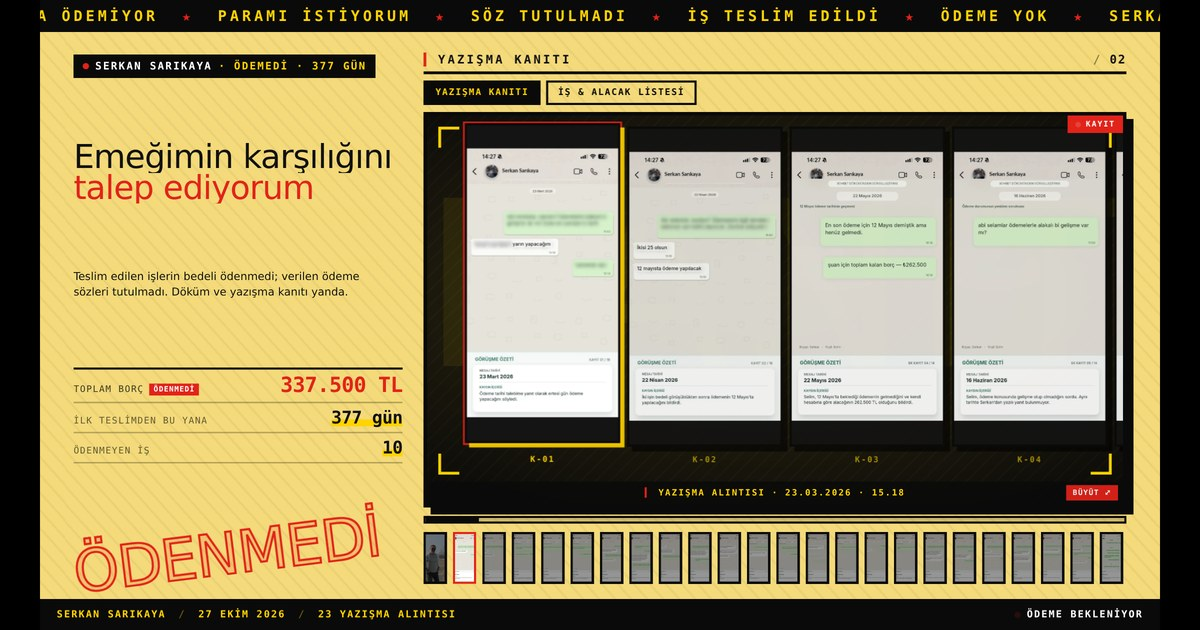
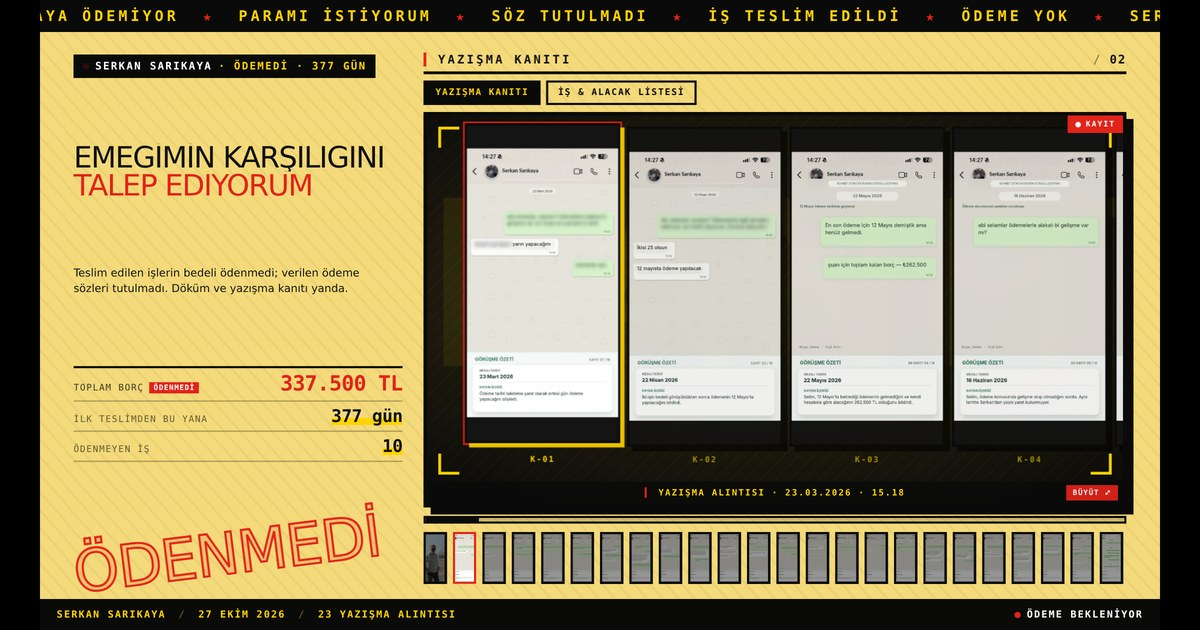
guncelle: 2026-10-28 07:22

diff --git a/04-afis-yatay.html b/04-afis-yatay.html
@@ -85,7 +85,7 @@ body{
 @keyframes blink{50%{opacity:.15}}
 
 h1{margin:0;font-family:var(--disp);
-  font-size:47px;line-height:.94;letter-spacing:-1px;font-weight:400}
+  font-size:42px;line-height:.94;letter-spacing:-1.6px;font-weight:400;text-transform:uppercase}
 h1 .ln{display:block;overflow:hidden}
 h1 .ln>i{display:block;font-style:normal;transform:translateY(105%);
   animation:wipe .82s cubic-bezier(.16,1,.3,1) forwards}
@@ -475,7 +475,7 @@ h1 .ln:nth-child(2){color:var(--r)}
   .left{gap:7px;justify-content:flex-start}
 
   .chip{font-size:10px;letter-spacing:.08em;padding:5px 8px;gap:6px}
-  h1{font-size:clamp(27px,8.6vw,42px);letter-spacing:-.5px;line-height:.94}
+  h1{font-size:clamp(24px,7.3vw,36px);letter-spacing:-.9px;line-height:.94}
   .lede{font-size:12.5px;line-height:1.3;max-width:none}
   .stats{margin-top:0;border-top-width:2px}
   .stat{padding:3px 0;gap:8px}
@@ -570,7 +570,7 @@ h1 .ln:nth-child(2){color:var(--r)}
 @media (min-width:600px) and (max-width:820px){
   .cell{width:176px}
   .slider{height:50svh;max-height:460px}
-  h1{font-size:clamp(38px,6.2vw,54px)}
+  h1{font-size:clamp(33px,5.4vw,46px);letter-spacing:-1.3px}
   .lede{font-size:14.5px}
   .stat u{font-size:22px}
   .stat.st-borc u{font-size:26px}
@@ -579,7 +579,7 @@ h1 .ln:nth-child(2){color:var(--r)}
 }
 @media (max-width:820px) and (orientation:landscape){
   .slider{height:82svh;min-height:300px}
-  h1{font-size:clamp(28px,5.2vw,42px)}
+  h1{font-size:clamp(24px,4.6vw,36px);letter-spacing:-1.1px}
   #giris .soz{font-size:clamp(26px,4.6vw,44px)}
   #giris .btn{margin-top:18px;padding:12px 22px}
 }
@@ -606,8 +606,8 @@ h1 .ln:nth-child(2){color:var(--r)}
       <span class="chip"><i class="dot"></i><b>SERKAN SARIKAYA</b> · ÖDEMEDİ · 377 gün</span>
 
       <h1>
-        <span class="ln"><i>Emeğimin karşılığını</i></span>
-        <span class="ln"><i>talep ediyorum</i></span>
+        <span class="ln"><i>EMEĞİMİN KARŞILIĞINI</i></span>
+        <span class="ln"><i>TALEP EDİYORUM</i></span>
       </h1>
 
       <p class="lede">Teslim edilen işlerin bedeli ödenmedi; verilen ödeme

diff --git a/index.html b/index.html
@@ -85,7 +85,7 @@ body{
 @keyframes blink{50%{opacity:.15}}
 
 h1{margin:0;font-family:var(--disp);
-  font-size:47px;line-height:.94;letter-spacing:-1px;font-weight:400}
+  font-size:42px;line-height:.94;letter-spacing:-1.6px;font-weight:400;text-transform:uppercase}
 h1 .ln{display:block;overflow:hidden}
 h1 .ln>i{display:block;font-style:normal;transform:translateY(105%);
   animation:wipe .82s cubic-bezier(.16,1,.3,1) forwards}
@@ -475,7 +475,7 @@ h1 .ln:nth-child(2){color:var(--r)}
   .left{gap:7px;justify-content:flex-start}
 
   .chip{font-size:10px;letter-spacing:.08em;padding:5px 8px;gap:6px}
-  h1{font-size:clamp(27px,8.6vw,42px);letter-spacing:-.5px;line-height:.94}
+  h1{font-size:clamp(24px,7.3vw,36px);letter-spacing:-.9px;line-height:.94}
   .lede{font-size:12.5px;line-height:1.3;max-width:none}
   .stats{margin-top:0;border-top-width:2px}
   .stat{padding:3px 0;gap:8px}
@@ -570,7 +570,7 @@ h1 .ln:nth-child(2){color:var(--r)}
 @media (min-width:600px) and (max-width:820px){
   .cell{width:176px}
   .slider{height:50svh;max-height:460px}
-  h1{font-size:clamp(38px,6.2vw,54px)}
+  h1{font-size:clamp(33px,5.4vw,46px);letter-spacing:-1.3px}
   .lede{font-size:14.5px}
   .stat u{font-size:22px}
   .stat.st-borc u{font-size:26px}
@@ -579,7 +579,7 @@ h1 .ln:nth-child(2){color:var(--r)}
 }
 @media (max-width:820px) and (orientation:landscape){
   .slider{height:82svh;min-height:300px}
-  h1{font-size:clamp(28px,5.2vw,42px)}
+  h1{font-size:clamp(24px,4.6vw,36px);letter-spacing:-1.1px}
   #giris .soz{font-size:clamp(26px,4.6vw,44px)}
   #giris .btn{margin-top:18px;padding:12px 22px}
 }
@@ -606,8 +606,8 @@ h1 .ln:nth-child(2){color:var(--r)}
       <span class="chip"><i class="dot"></i><b>SERKAN SARIKAYA</b> · ÖDEMEDİ · 377 gün</span>
 
       <h1>
-        <span class="ln"><i>Emeğimin karşılığını</i></span>
-        <span class="ln"><i>talep ediyorum</i></span>
+        <span class="ln"><i>EMEĞİMİN KARŞILIĞINI</i></span>
+        <span class="ln"><i>TALEP EDİYORUM</i></span>
       </h1>
 
       <p class="lede">Teslim edilen işlerin bedeli ödenmedi; verilen ödeme
